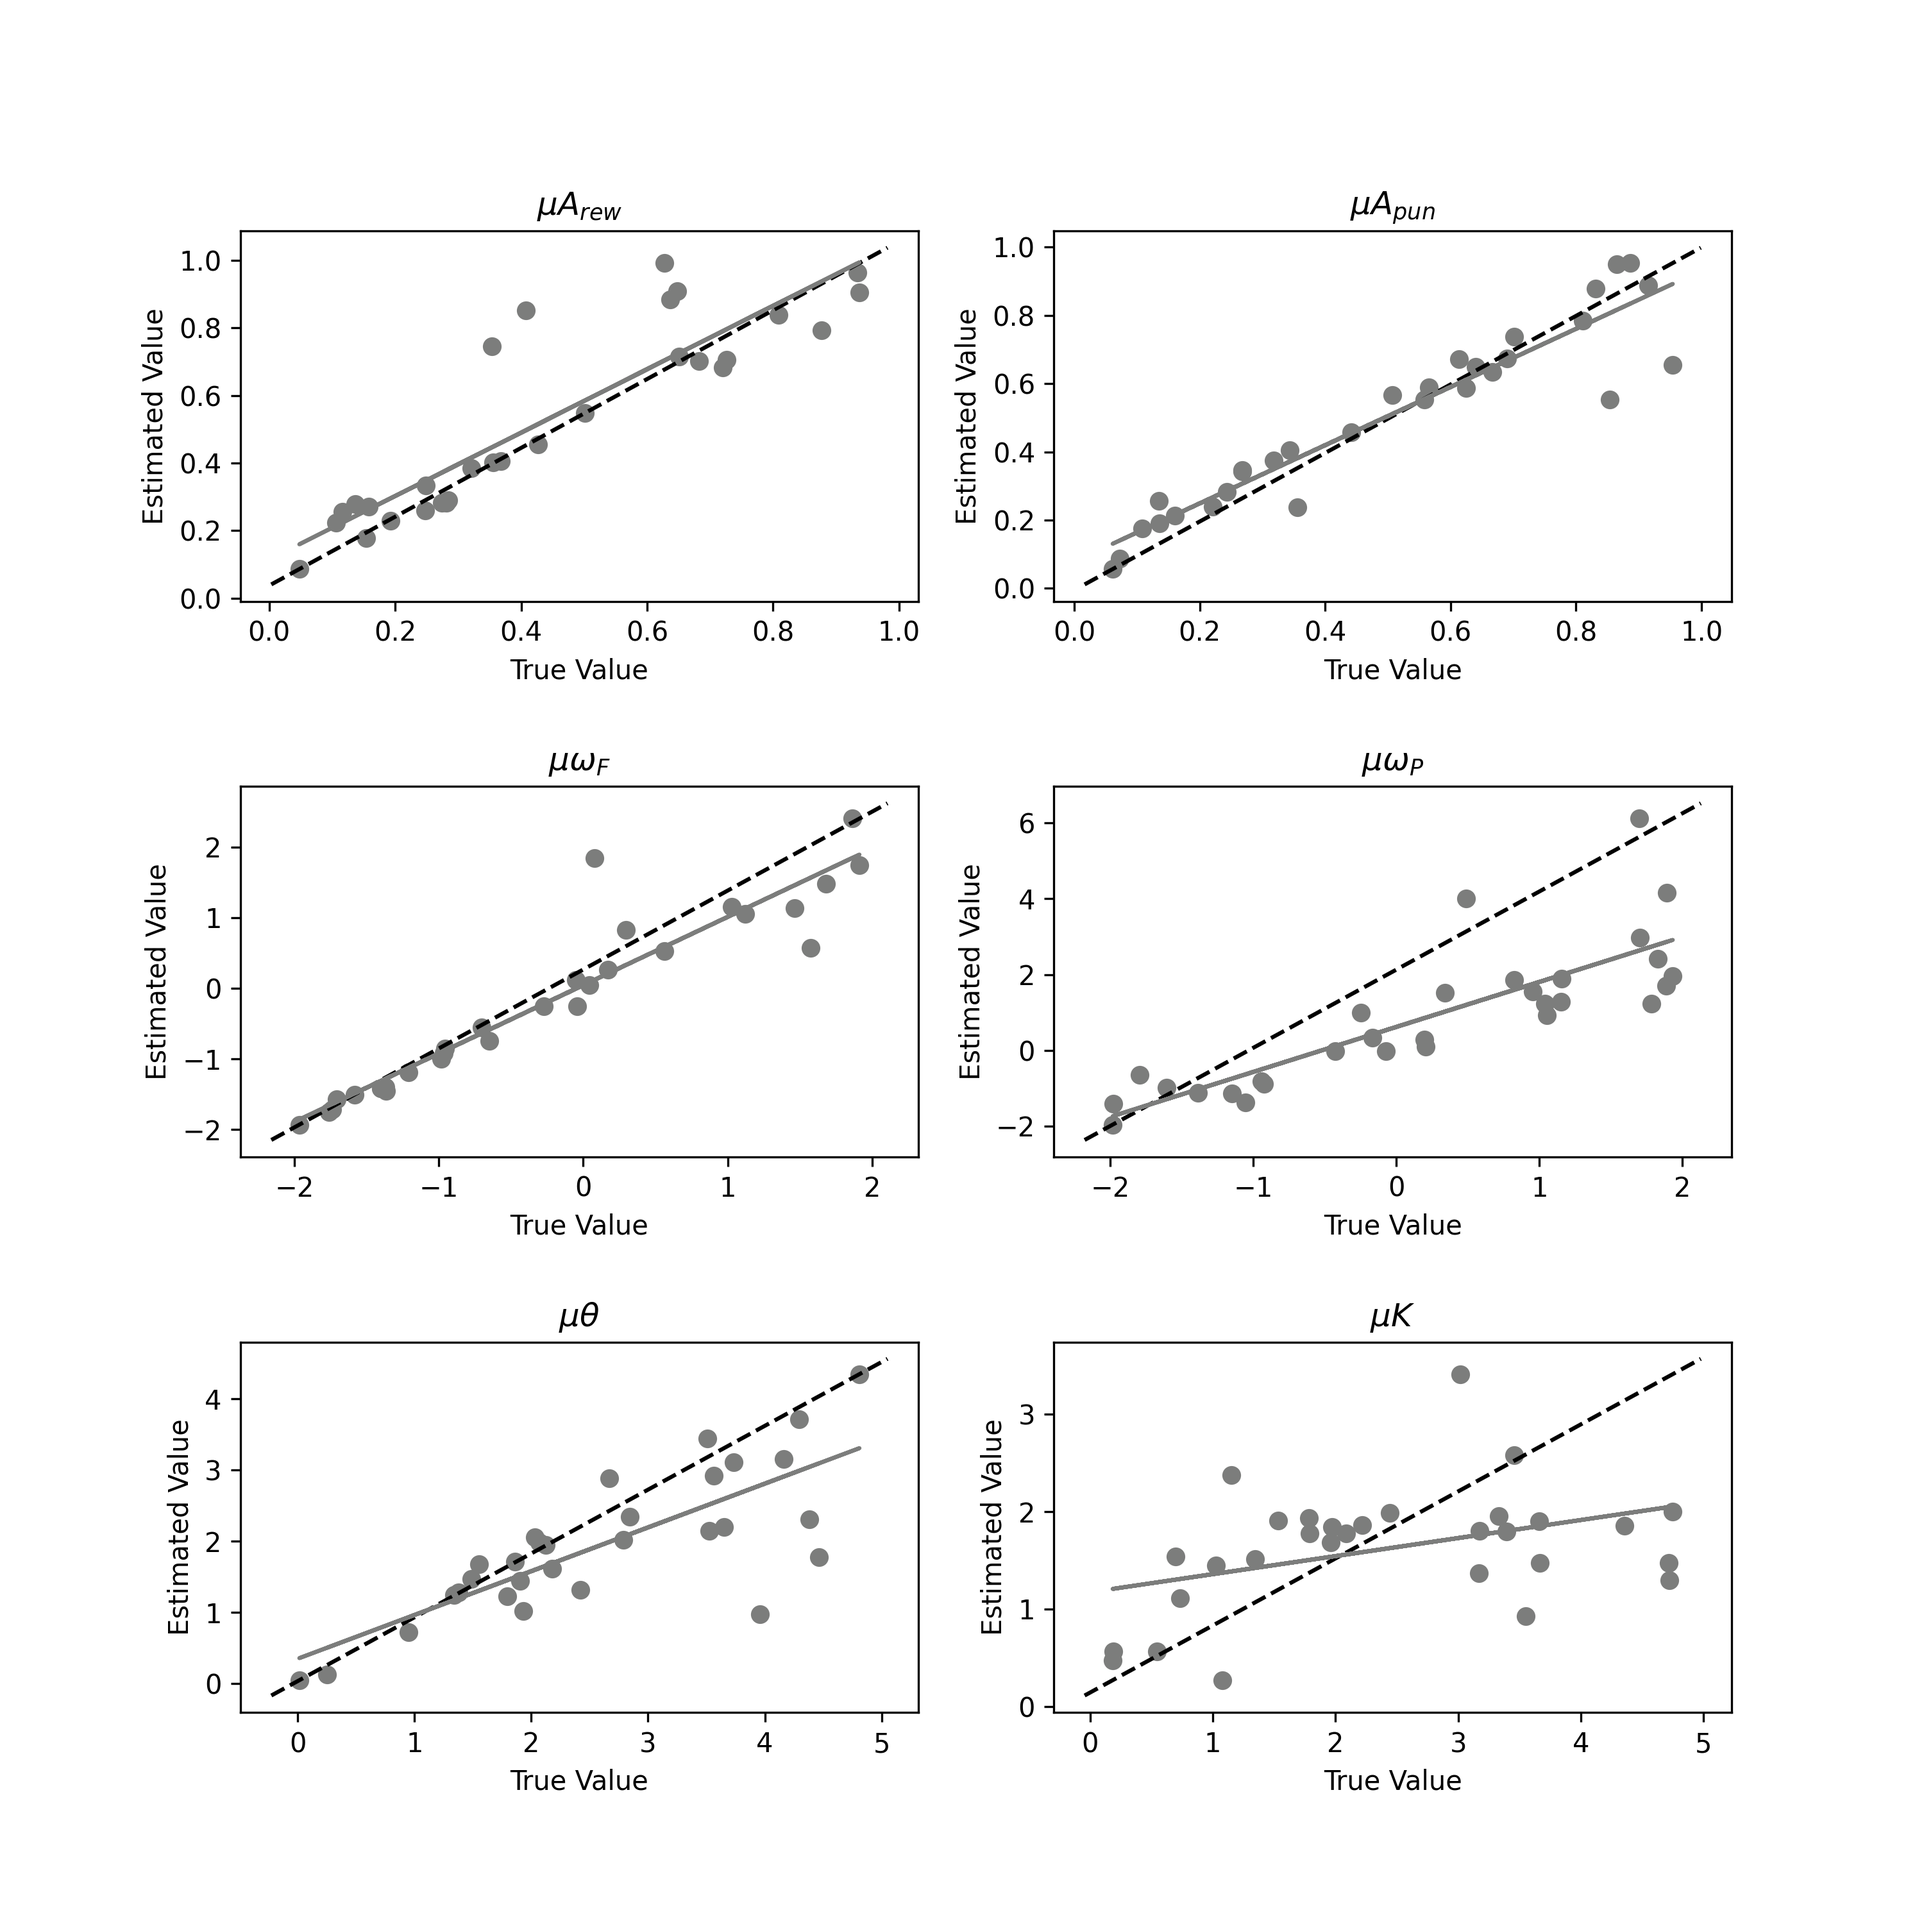
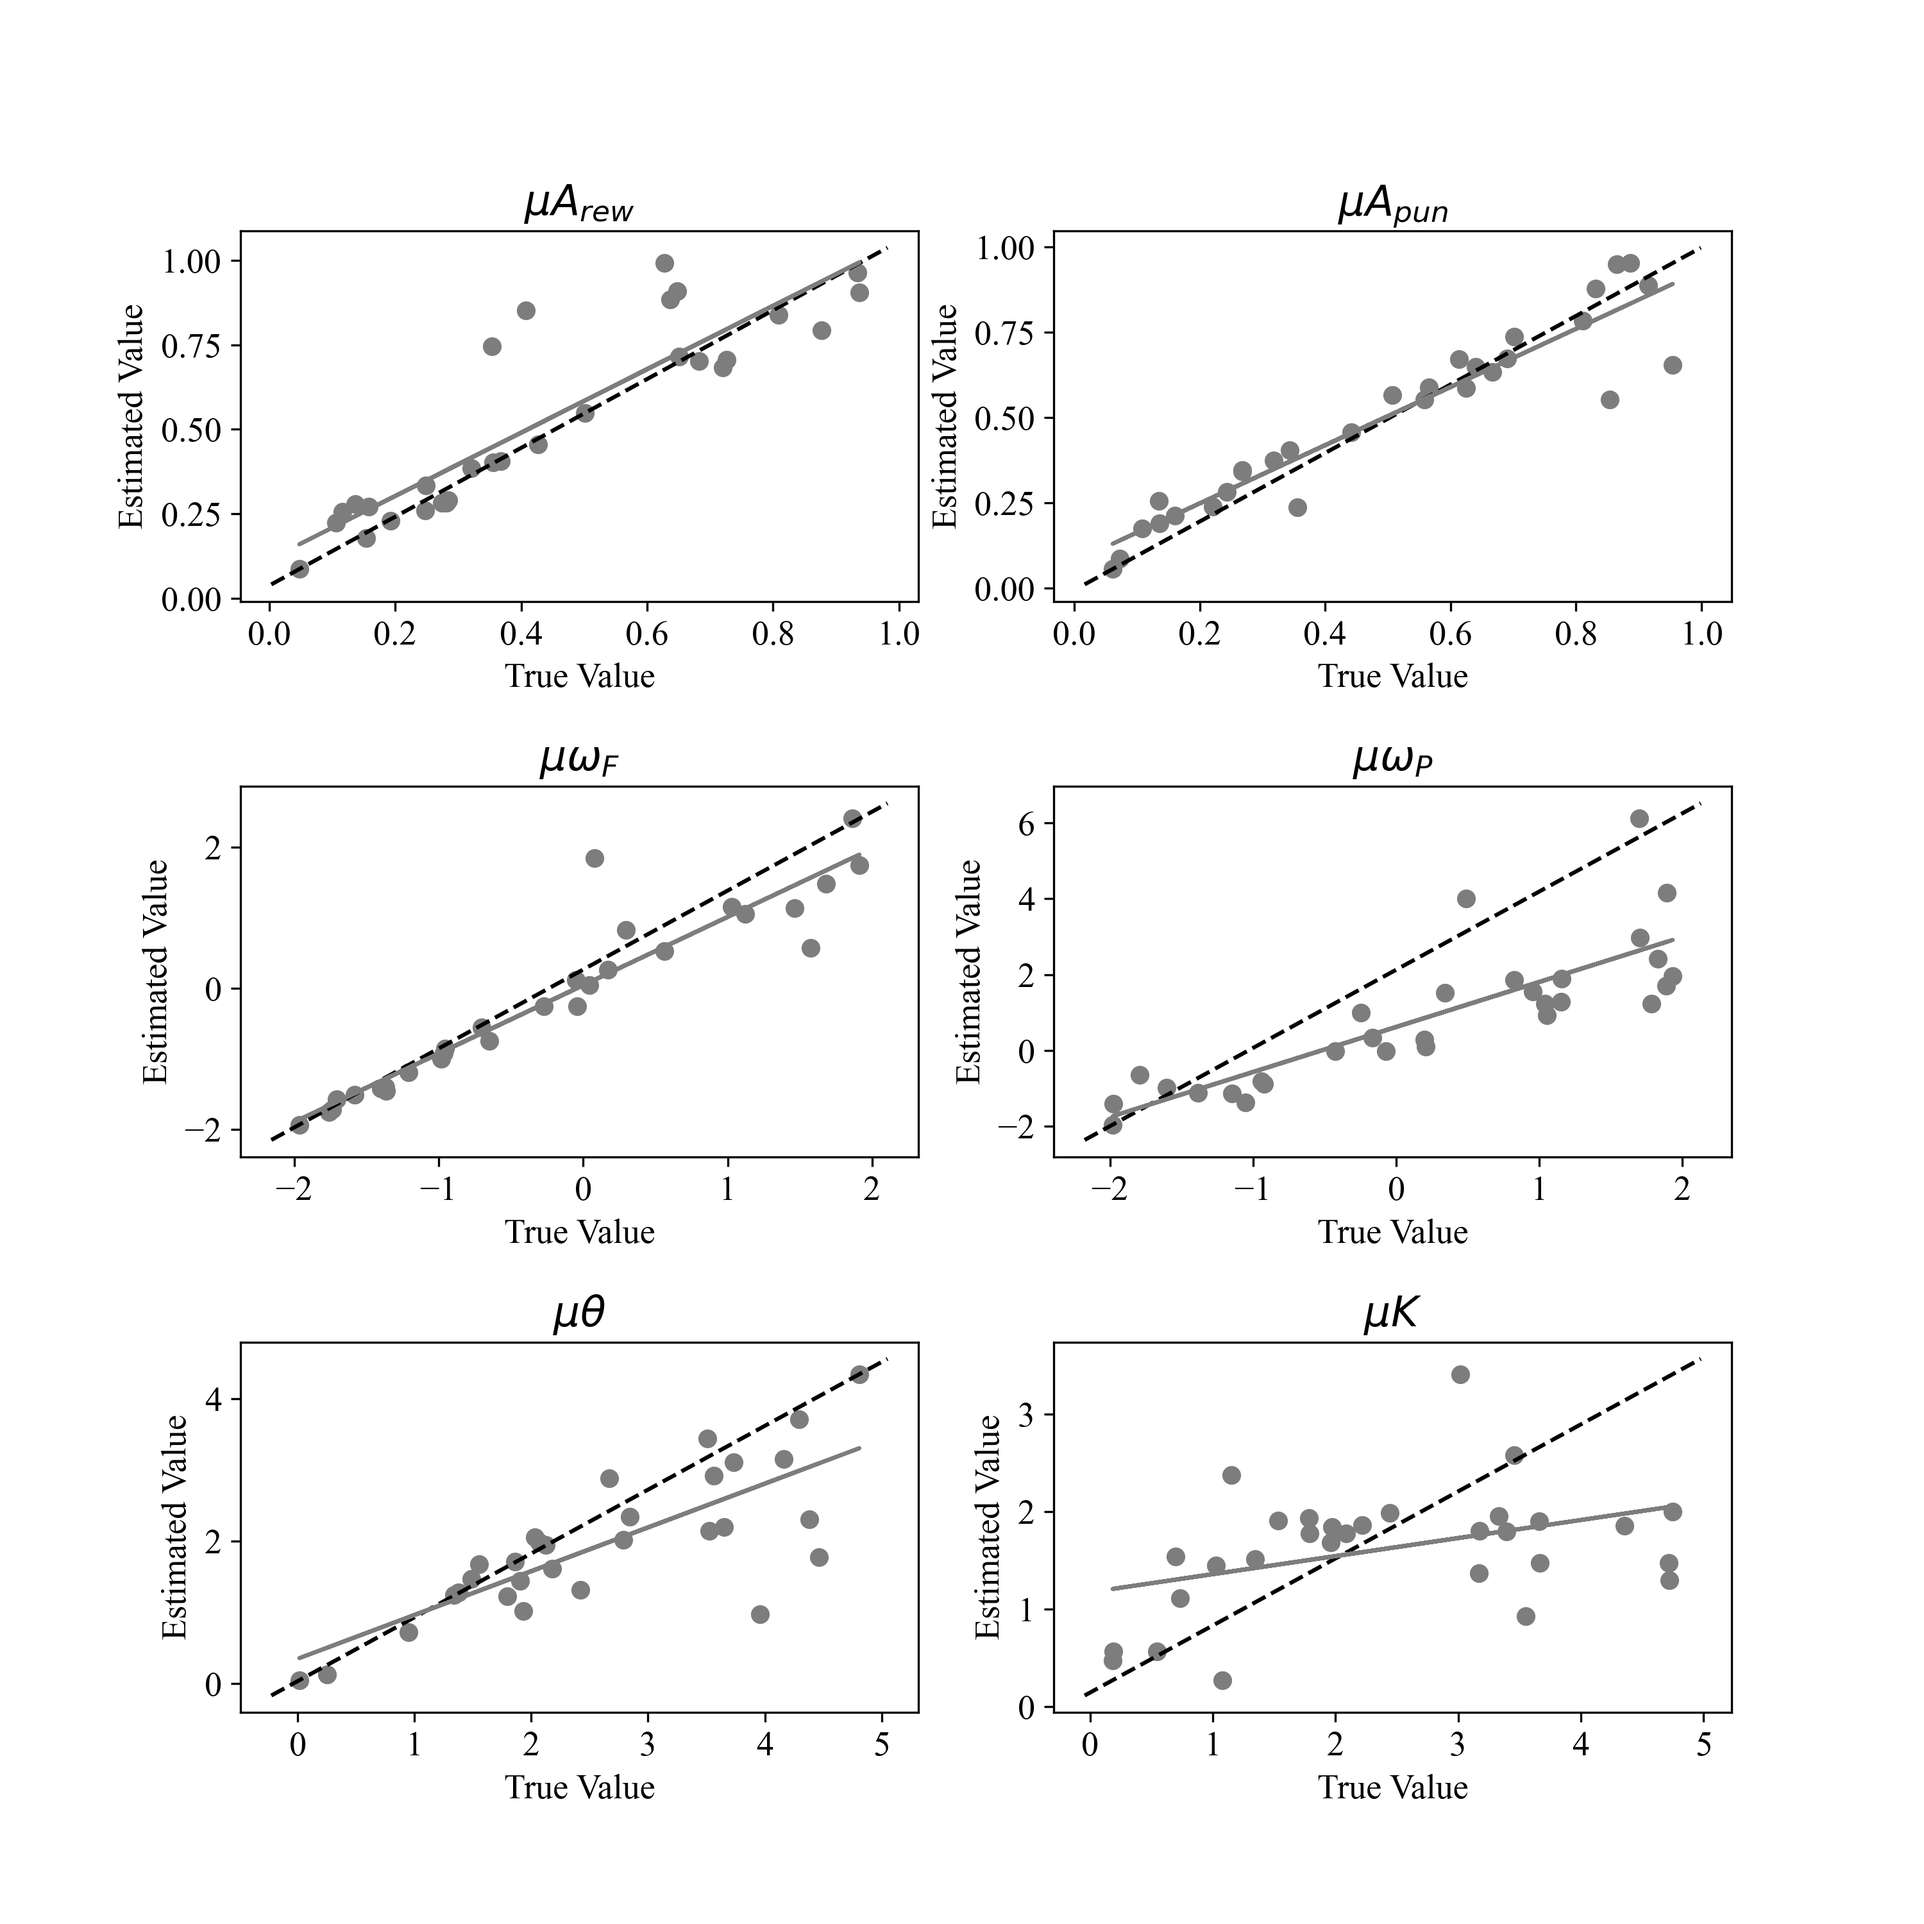
changed font to times

diff --git a/src/recovery/plot_recovery.py b/src/recovery/plot_recovery.py
@@ -7,6 +7,16 @@ import numpy as np
 import pandas as pd
 import re
 from scipy.stats import binom
+import matplotlib.pyplot as plt
+from matplotlib.font_manager import FontManager
+
+def set_font():
+    available_fonts = set(f.name for f in FontManager().ttflist)
+    if 'Times New Roman' in available_fonts:
+        # use times new roman if available
+        plt.rcParams['font.family'] = 'Times New Roman'
+        # set font size to 13
+        plt.rcParams.update({'font.size': 13})
 
 def chance_level(n, alpha = 0.001, p = 0.5):
     k = binom.ppf(1-alpha, n, p)
@@ -156,6 +166,9 @@ def main():
     group_data_fixed_theta = pd.read_csv(group_fixed_theta_path)
     comparison_data = pd.read_csv(comparison_path)
     comparison_data_fixed_theta = pd.read_csv(comparison_fixed_theta_path)
+
+    # set global font to Times if it is available
+    set_font()
 
     # plot subject recovery
     subject_parameters = [
